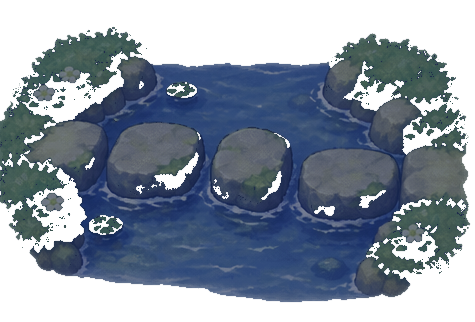
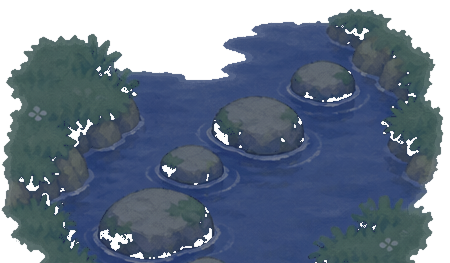
Replace item side-panel sliders with on-canvas resize/rotate/skew handles
Resize and skew now live directly on the selected decoration's own
bounding box instead of range sliders in a side panel: drag the corner
handle to resize, drag the other handle to skew, tap the handle above
the item to rotate. Mirror, duplicate, and remove stay in the small
panel beside it. All three respond correctly to both mouse and touch
drag.

Also swaps in the v3 style-matched bridges/water pack for the 5 assets
it covers (straight/curved bridge, dock, curved stream, stepping
stones); straight stream keeps its original art since v3 doesn't
include a replacement for it.

Claude-Session: https://claude.ai/code/session_01WaEH4VFQ6nbnvVxmGg3MRu

diff --git a/src/components/SanctuaryBuild.tsx b/src/components/SanctuaryBuild.tsx
@@ -37,6 +37,8 @@ export default function SanctuaryBuild({data,save,phase}:{data:AppData;save:Plan
  const [liveSkew,setLiveSkew]=useState<{id:string;value:number}|null>(null)
  const scaleCommitTimer=useRef<number|undefined>(undefined)
  const skewCommitTimer=useRef<number|undefined>(undefined)
+ const resizeDrag=useRef<{anchorX:number;anchorY:number;startDistance:number;startScale:number}|null>(null)
+ const skewDrag=useRef<{startX:number;startSkew:number;boxWidthPx:number}|null>(null)
 
  const withCurrent=(d:AppData,patch:Partial<ReturnType<typeof decorFor>>)=>{
   const current=decorFor(d)
@@ -104,6 +106,44 @@ export default function SanctuaryBuild({data,save,phase}:{data:AppData;save:Plan
   window.clearTimeout(skewCommitTimer.current)
   skewCommitTimer.current=window.setTimeout(()=>{void commit(decor.placements.map(p=>p.id===selected?{...p,skewX}:p))},150)
  }
+ // Resize/skew handles live on the item's own bounding box rather than in the side panel, so sizing
+ // an item is "grab a corner and drag" instead of hunting for a slider. Both read distance/position
+ // from the pointer's screen coordinates against the item's own anchor point (the same point its CSS
+ // transform-origin pivots around) rather than trying to invert the rotate/skew transform, which keeps
+ // the math simple and stays correct at any of the four rotation steps.
+ const handleResizeStart=(e:ReactPointerEvent<HTMLButtonElement>)=>{
+  const placement=decor.placements.find(p=>p.id===selected)
+  if(!placement)return
+  e.stopPropagation()
+  e.currentTarget.setPointerCapture(e.pointerId)
+  const rect=canvasRef.current?.getBoundingClientRect()
+  const anchorX=rect?rect.left+placement.x*rect.width:0,anchorY=rect?rect.top+placement.y*rect.height:0
+  const startDistance=Math.max(1,Math.hypot(e.clientX-anchorX,e.clientY-anchorY))
+  resizeDrag.current={anchorX,anchorY,startDistance,startScale:placement.scale}
+ }
+ const handleResizeMove=(e:ReactPointerEvent<HTMLButtonElement>)=>{
+  const drag=resizeDrag.current
+  if(!drag)return
+  const distance=Math.hypot(e.clientX-drag.anchorX,e.clientY-drag.anchorY)
+  setSelectedScale(Math.min(MAX_SCALE,Math.max(MIN_SCALE,drag.startScale*(distance/drag.startDistance))))
+ }
+ const handleResizeEnd=(e:ReactPointerEvent<HTMLButtonElement>)=>{e.stopPropagation();resizeDrag.current=null}
+ const handleSkewStart=(e:ReactPointerEvent<HTMLButtonElement>)=>{
+  const placement=decor.placements.find(p=>p.id===selected)
+  if(!placement)return
+  e.stopPropagation()
+  e.currentTarget.setPointerCapture(e.pointerId)
+  const asset=BUILD_ASSET_BY_ID[placement.assetId]
+  const rect=canvasRef.current?.getBoundingClientRect()
+  const boxWidthPx=asset&&rect?(asset.width/1448)*rect.width*placement.scale:100
+  skewDrag.current={startX:e.clientX,startSkew:placement.skewX,boxWidthPx:Math.max(20,boxWidthPx)}
+ }
+ const handleSkewMove=(e:ReactPointerEvent<HTMLButtonElement>)=>{
+  const drag=skewDrag.current
+  if(!drag)return
+  setSelectedSkew(Math.min(MAX_SKEW,Math.max(MIN_SKEW,drag.startSkew+(e.clientX-drag.startX)/drag.boxWidthPx*90)))
+ }
+ const handleSkewEnd=(e:ReactPointerEvent<HTMLButtonElement>)=>{e.stopPropagation();skewDrag.current=null}
 
  const itemPointerDown=(e:ReactPointerEvent<HTMLButtonElement>,placement:BuildPlacement)=>{
   e.stopPropagation()
@@ -145,6 +185,23 @@ export default function SanctuaryBuild({data,save,phase}:{data:AppData;save:Plan
     </button>
    })}
    {selectedPlacement&&(()=>{
+    // Resize/rotate/skew live directly on the selected item's own bounding box — a sibling overlay
+    // sharing its exact left/top/transform, so the handles move, rotate and skew right along with the
+    // art instead of a fixed side panel. `pointer-events:none` on the wrapper keeps it from stealing
+    // clicks meant for the item or canvas; each handle opts back in.
+    const asset=BUILD_ASSET_BY_ID[selectedPlacement.assetId]
+    if(!asset)return null
+    const pos=dragId===selectedPlacement.id&&dragPos?dragPos:selectedPlacement
+    const scale=liveScale&&liveScale.id===selectedPlacement.id?liveScale.value:selectedPlacement.scale
+    const skewX=liveSkew&&liveSkew.id===selectedPlacement.id?liveSkew.value:selectedPlacement.skewX
+    const counterScale=1/Math.min(2.2,Math.max(0.6,scale))
+    return <div className="build-item-handles" style={{left:(pos.x*100)+'%',top:(pos.y*100)+'%',width:(asset.width/1448*100)+'%',aspectRatio:`${asset.width} / ${asset.height}`,transformOrigin:`50% ${asset.anchor.y*100}%`,transform:`translate(-50%,-${asset.anchor.y*100}%) rotate(${selectedPlacement.rotation}deg) skewX(${skewX}deg) scale(${(selectedPlacement.flipX?-1:1)*scale},${scale})`}}>
+     <button type="button" className="build-handle build-handle-rotate" style={{transform:`translate(-50%,-50%) scale(${counterScale})`}} onPointerDown={e=>e.stopPropagation()} onClick={e=>{e.stopPropagation();rotateSelected()}} aria-label="Rotate">⟳</button>
+     <button type="button" className="build-handle build-handle-resize" style={{transform:`translate(50%,50%) scale(${counterScale})`}} onPointerDown={handleResizeStart} onPointerMove={handleResizeMove} onPointerUp={handleResizeEnd} aria-label="Resize">⤡</button>
+     <button type="button" className="build-handle build-handle-skew" style={{transform:`translate(-50%,50%) scale(${counterScale})`}} onPointerDown={handleSkewStart} onPointerMove={handleSkewMove} onPointerUp={handleSkewEnd} aria-label="Skew">⬠</button>
+    </div>
+   })()}
+   {selectedPlacement&&(()=>{
     // Anchored beside the selected item (flipping left/right to stay on screen) rather than below/
     // above it, so the panel never sits on top of the very art it's adjusting — the item's own
     // footprint width decides how far out the panel starts.
@@ -156,10 +213,7 @@ export default function SanctuaryBuild({data,save,phase}:{data:AppData;save:Plan
     const left=onRight?`calc(${selectedPlacement.x*100}% + ${gapPct}%)`:`calc(${selectedPlacement.x*100}% - ${gapPct}%)`
     const top=`clamp(90px, ${selectedPlacement.y*100}%, calc(100% - 90px))`
     return <div className={'build-item-panel'+(onRight?' is-right':' is-left')} style={{left,top}}>
-     <label>Size<input type="range" min={MIN_SCALE} max={MAX_SCALE} step={0.05} value={liveScale&&liveScale.id===selectedPlacement.id?liveScale.value:selectedPlacement.scale} onChange={e=>setSelectedScale(Number(e.target.value))}/></label>
-     <label>Skew<input type="range" min={MIN_SKEW} max={MAX_SKEW} step={1} value={liveSkew&&liveSkew.id===selectedPlacement.id?liveSkew.value:selectedPlacement.skewX} onChange={e=>setSelectedSkew(Number(e.target.value))}/></label>
      <div className="build-item-actions">
-      <button type="button" onClick={rotateSelected} aria-label="Rotate">⟳</button>
       <button type="button" aria-pressed={selectedPlacement.flipX} onClick={mirrorSelected} aria-label="Mirror">⇋</button>
       <button type="button" onClick={duplicateSelected} aria-label="Duplicate">⧉</button>
       <button type="button" onClick={removeSelected} aria-label="Remove">🗑</button>
@@ -169,7 +223,7 @@ export default function SanctuaryBuild({data,save,phase}:{data:AppData;save:Plan
    })()}
   </div>
   <section className="sanctuary-build">
-   <p className="wb-muted">Tap an item to add it to your island, or drag it on to choose where it lands. Drag a placed item anywhere to move it, or tap it once to resize, skew, mirror, duplicate, rotate, or remove it. Place as many of anything as you like.</p>
+   <p className="wb-muted">Tap an item to add it to your island, or drag it on to choose where it lands. Drag a placed item anywhere to move it, or tap it once to select it — then drag the ⤡ handle to resize, ⬠ to skew, or tap ⟳ to rotate, right on the item itself. Mirror, duplicate, and remove stay in the small panel beside it. Place as many of anything as you like.</p>
    <nav className="build-category-tabs" aria-label="Decoration categories">{BUILD_CATEGORIES.map(c=><button type="button" key={c} aria-current={category===c?'page':undefined} onClick={()=>{setCategory(c);setSelected(null)}}>{BUILD_CATEGORY_LABELS[c]}</button>)}</nav>
    <div className="build-palette">{BUILD_ASSETS.filter(a=>a.category===category).map(a=>
     <div role="button" tabIndex={0} draggable key={a.id} className="build-palette-item" onDragStart={e=>{e.dataTransfer.setData('text/plain',a.id);e.dataTransfer.effectAllowed='copy'}} onClick={()=>placeDefault(a.id)} onKeyDown={e=>{if(e.key==='Enter'||e.key===' '){e.preventDefault();placeDefault(a.id)}}} aria-label={'Add '+a.label}><span className="build-palette-thumb"><img src={assetSrc(a)} alt="" draggable={false}/></span><small>{a.label}</small></div>

diff --git a/src/game/data/bridgeAssets.ts b/src/game/data/bridgeAssets.ts
@@ -18,12 +18,15 @@ export type BridgeAsset = {
 }
 
 export const BRIDGE_ASSETS: BridgeAsset[] = [
-  { id: 'bridge-straight-wooden', label: 'Straight Wooden Bridge', width: 410, height: 345, rotatable: true, flippable: true },
-  { id: 'bridge-curved-wooden', label: 'Curved Wooden Bridge', width: 425, height: 370, rotatable: true, flippable: true },
-  { id: 'dock-tiny-wooden-edge', label: 'Tiny Wooden Dock', width: 470, height: 355, rotatable: true, flippable: true },
+  // Straight bridge, curved bridge, dock, curved stream and stepping stones were redrawn in v3
+  // (style-matched to the rest of the pack) with new native dimensions; straight stream keeps its
+  // original v1 art, since v3 didn't include a replacement for it.
+  { id: 'bridge-straight-wooden', label: 'Straight Wooden Bridge', width: 441, height: 250, rotatable: true, flippable: true },
+  { id: 'bridge-curved-wooden', label: 'Curved Wooden Bridge', width: 445, height: 228, rotatable: true, flippable: true },
+  { id: 'dock-tiny-wooden-edge', label: 'Tiny Wooden Dock', width: 280, height: 315, rotatable: true, flippable: true },
   { id: 'stream-straight', label: 'Straight Stream', width: 350, height: 393, rotatable: true, flippable: true },
-  { id: 'stream-curve', label: 'Curved Stream', width: 455, height: 400, rotatable: true, flippable: true },
-  { id: 'stepping-stones-crossing', label: 'Stepping Stones Crossing', width: 475, height: 322, rotatable: true, flippable: false },
+  { id: 'stream-curve', label: 'Curved Stream', width: 554, height: 376, rotatable: true, flippable: true },
+  { id: 'stepping-stones-crossing', label: 'Stepping Stones Crossing', width: 450, height: 263, rotatable: true, flippable: false },
 ]
 
 export const BRIDGE_ASSET_BY_ID = Object.fromEntries(BRIDGE_ASSETS.map(a => [a.id, a])) as Record<BridgeAssetId, BridgeAsset>

diff --git a/src/components/sanctuary-build.css b/src/components/sanctuary-build.css
@@ -6,6 +6,15 @@
 .build-item.is-dragging{cursor:grabbing;z-index:5}
 .build-item.is-selected{outline:2px solid #ffd54a;outline-offset:3px;border-radius:8px}
 .build-item img{width:100%;height:auto;display:block;pointer-events:none;filter:drop-shadow(0 3px 4px rgba(0,0,0,.4))}
+/* A sibling overlay sharing the selected item's exact box/transform, so its handles ride along with
+ * rotation/skew/scale. The wrapper itself ignores pointer events (it must not block the item or
+ * canvas underneath); each handle button opts back in and is counter-scaled so it stays a reliable
+ * touch target instead of ballooning or vanishing with the item's own scale. */
+.build-item-handles{position:absolute;pointer-events:none;z-index:7}
+.build-handle{position:absolute;pointer-events:auto;width:34px;height:34px;border-radius:50%;border:2px solid var(--wb-accent);background:var(--wb-surface);display:grid;place-items:center;font-size:.95rem;line-height:1;cursor:pointer;box-shadow:0 2px 6px #00000030;touch-action:none}
+.build-handle-rotate{top:-8%;left:50%}
+.build-handle-resize{right:-8%;bottom:-8%;cursor:nwse-resize}
+.build-handle-skew{left:-8%;bottom:-8%;cursor:ew-resize}
 /* Anchored beside the selected item (see the inline left/top, computed from the item's own
  * footprint width) rather than below/above it, so the panel never covers the art it's adjusting.
  * .is-right sits to the item's right (growing rightward), .is-left flips to its left (growing
